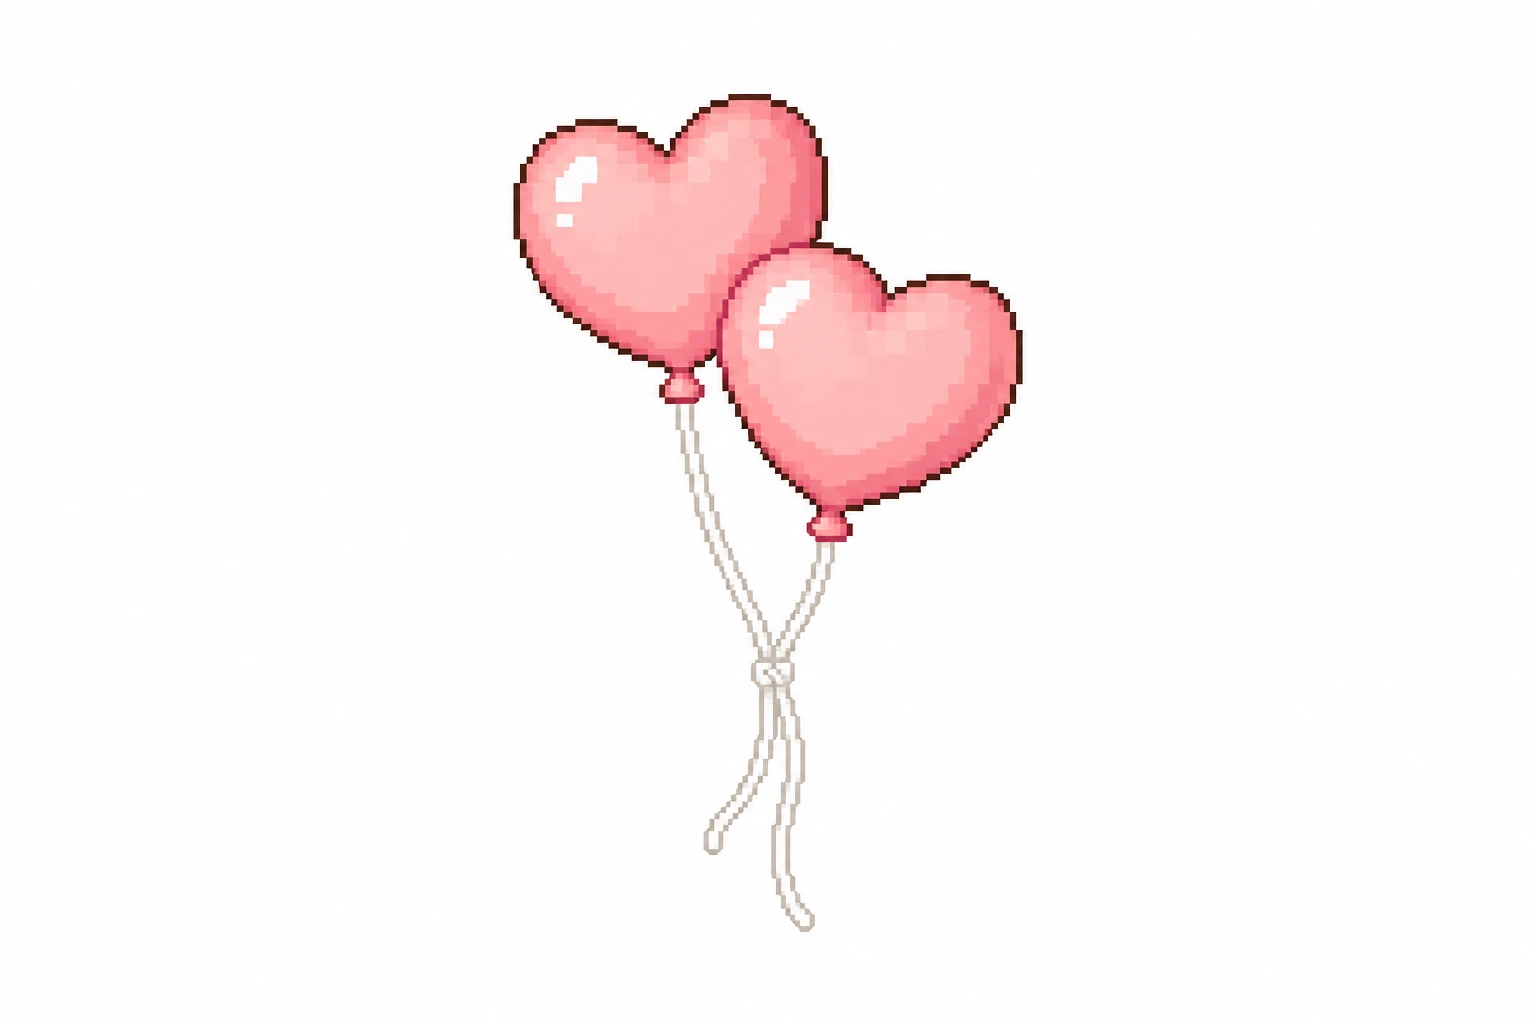
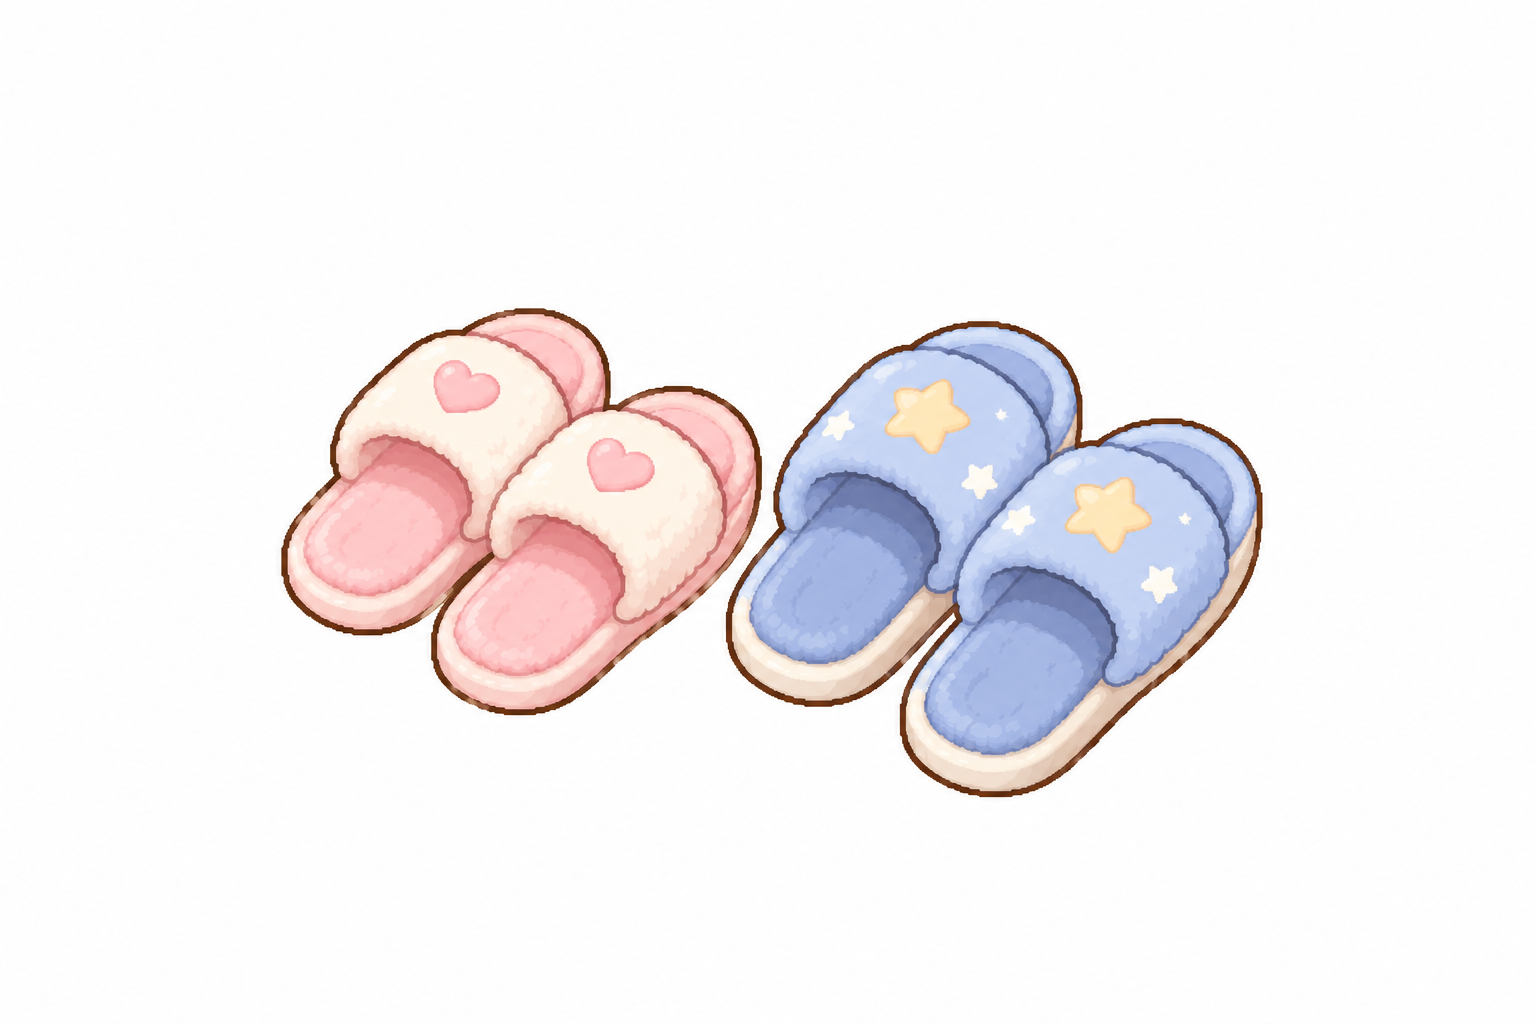
Room items: the last 13 pieces of furniture
Slippers (replacing the heart balloons), hot pot on the low table, ice-cream
beanbag, record player in the TV cabinet's left cubby, sunflowers, popcorn
and microphone on the TV cabinet, umbrella stand, shopping bags and broom by
the door, a letter under the door, and a towel and bike helmet on the door
hook. Sizes follow the teddy bear. All 32 joys now have furniture.

Claude-Session: https://claude.ai/code/session_01MT4YkmG2KGTMjF5XqnwBbs

Changed region(s): [[0.1562, 0.0938, 0.8438, 0.9062], [0.4375, 0.8125, 0.4688, 0.8438]]

diff --git a/public/joys-config.js b/public/joys-config.js
@@ -9,7 +9,7 @@ export const IMPRINTS = {
   cat: { name: '小貓抱枕', where: '床上', x: 520, y: 520, w: 130, h: 81, z: 2 },
   coffee: { name: '拿鐵', where: '書桌上', x: 705, y: 332, w: 54, h: 47, z: 1 },
   meal: { name: '小矮桌和碗筷', where: '電視前的地毯上', x: 975, y: 705, w: 170, h: 121, r: .07, z: 3 },
-  hearts: { name: '愛心氣球', where: '禮物旁邊', x: 280, y: 650, w: 115, h: 189, z: 3 },
+  hearts: { name: '兩雙室內拖鞋', where: '地毯旁邊', x: 855, y: 792, w: 112, h: 56, r: .03, z: 3 },
   gift: { name: '禮物盒', where: '書櫃旁邊', x: 245, y: 705, w: 105, h: 141, r: .04, z: 4 },
   bear: { name: '熊熊玩偶', where: '床邊', x: 330, y: 720, w: 95, h: 126, r: .035, z: 5 },
   paw: { name: '貓狗玩偶', where: '書櫃上', x: 150, y: 430, w: 92, h: 62, z: 2 },
@@ -26,6 +26,18 @@ export const IMPRINTS = {
   game: { name: '掌上遊戲機', where: '床上', x: 520, y: 515, w: 110, h: 69, z: 2 },
   workout: { name: '瑜珈墊和啞鈴', where: '書櫃旁邊', x: 245, y: 712, w: 100, h: 152, r: .045, z: 4 },
   book: { name: '一疊書', where: '小熊旁邊', x: 440, y: 728, w: 118, h: 116, r: .045, z: 5 },
+  cook: { name: '小矮桌和一鍋熱湯', where: '電視前的地毯上', x: 975, y: 705, w: 170, h: 172, r: .07, z: 3 },
+  icecream: { name: '冰淇淋懶骨頭', where: '房間前面的地板', x: 560, y: 812, w: 134, h: 132, r: .06, z: 5 },
+  music: { name: '小唱片機', where: '電視櫃的格子裡', x: 1029, y: 567, w: 40, h: 43, z: 1 },
+  sun: { name: '向日葵花瓶', where: '電視櫃上', x: 1212, y: 560, w: 70, h: 87, z: 1 },
+  movie: { name: '爆米花和電影票', where: '電視櫃上', x: 1212, y: 564, w: 72, h: 62, z: 1 },
+  sing: { name: '小麥克風', where: '電視櫃上', x: 1210, y: 562, w: 58, h: 69, z: 1 },
+  umbrella: { name: '小傘架', where: '門旁邊', x: 1276, y: 676, w: 62, h: 148, r: .03, z: 4 },
+  shop: { name: '購物紙袋', where: '門旁邊', x: 1262, y: 690, w: 116, h: 100, r: .04, z: 4 },
+  clean: { name: '小掃把和畚箕', where: '門旁邊', x: 1268, y: 684, w: 100, h: 118, r: .035, z: 4 },
+  letter: { name: '門縫塞進來的信', where: '門前', x: 1335, y: 714, w: 58, h: 40, z: 2 },
+  bath: { name: '浴巾和小黃鴨', where: '門上的掛鉤', x: 1368, y: 575, w: 56, h: 126, z: 2 },
+  bike: { name: '腳踏車安全帽', where: '門上的掛鉤', x: 1368, y: 565, w: 62, h: 115, z: 2 },
 };
 
 // 擺放位置（多選一，使用者定案）：同一個位置一次只放一件；換上新的，原本那件自動收起來，隨時可以換回來

diff --git a/public/sw.js b/public/sw.js
@@ -1,5 +1,5 @@
 // 版本號：主.次.修（見 CLAUDE.md「版本號」）。改了任何檔案就把最後一位 +1，舊快取才會被清掉
-const VERSION = '0.0.97';
+const VERSION = '0.0.98';
 const CACHE = `lifelog-${VERSION}`;
 const ASSETS = [
   './',
@@ -71,6 +71,18 @@ const ASSETS = [
   './room/imprints/game.webp',
   './room/imprints/workout.webp',
   './room/imprints/book.webp',
+  './room/imprints/bike.webp',
+  './room/imprints/bath.webp',
+  './room/imprints/letter.webp',
+  './room/imprints/umbrella.webp',
+  './room/imprints/shop.webp',
+  './room/imprints/clean.webp',
+  './room/imprints/sun.webp',
+  './room/imprints/movie.webp',
+  './room/imprints/sing.webp',
+  './room/imprints/music.webp',
+  './room/imprints/icecream.webp',
+  './room/imprints/cook.webp',
   './joys/sparkle.webp',
   './joys/music.webp',
   './room/tv_on.webp',

diff --git a/art/tools/imprint_items.py b/art/tools/imprint_items.py
@@ -19,13 +19,15 @@ SRC = ROOT / 'art/source/furniture'
 OUT = ROOT / 'public/room/imprints'
 LINE = (62, 23, 11)  # 房間外框的顏色
 # key: 在房間裡的寬度（房間座標）
-WIDTH = {'cat': 130, 'coffee': 54, 'meal': 170, 'gift': 105, 'bear': 95, 'hearts': 85,
+WIDTH = {'cat': 130, 'coffee': 54, 'meal': 170, 'gift': 105, 'bear': 95, 'hearts': 112,
          'paw': 120, 'moon': 44, 'star': 200, 'sneaker': 62,
          'cake': 58, 'call': 64, 'camera': 52, 'home': 56, 'plant': 64, 'sparkle': 300, 'sunset': 96,
-         'game': 110, 'workout': 100, 'book': 118}
+         'game': 110, 'workout': 100, 'book': 118,
+         'bike': 62, 'bath': 56, 'letter': 58, 'umbrella': 62, 'shop': 116, 'clean': 100, 'sun': 70, 'movie': 72,
+         'sing': 58, 'music': 40, 'icecream': 134, 'cook': 170}
 # 掛在牆上的要照牆的斜度斜過去：每往右 1px 往下幾 px（GPT 畫的是正面，右牆約往下 0.49，原圖的線已經斜 0.19）
 # 負的是往右上升：左牆、窗簾桿（約 -0.49）
-SHEAR = {'star': 0.3, 'sparkle': -0.49, 'sunset': -0.49}
+SHEAR = {'star': 0.3, 'sparkle': -0.49, 'sunset': -0.49, 'bike': 0.49, 'bath': 0.49}
 # 小東西的外框細一點（預設 3px）
 LINE_W = {'star': 2, 'sparkle': 2}
 

diff --git a/CLAUDE.md b/CLAUDE.md
@@ -163,7 +163,11 @@
   - 設定 `public/joys-config.js` 的 `IMPRINTS`：每件家具在房間的位置（底部中間 x,y）、大小、疊放順序 z、放在地板上的擋路半徑 r；改數字不用動程式。
   - 圖：`python3 art/tools/imprint_items.py` 把 `art/source/furniture/<key>.png`（GPT 白底單張）去背、縮到房間大小、外框重畫成房間的粗細顏色 → `public/room/imprints/<key>.webp`；新增要加進 `WIDTH`、`IMPRINTS`、`sw.js`。
   - **多選一的擺放位置**（使用者定案，取代原本的「新家具直接疊上去」）：`joys-config.js` 的 `SLOT_OF` 把 32 個圖示分到 22 個位置（`SLOTS` 是位置名稱），同一個位置一次只放一件。拿到新家具時位置已經有東西，視窗問「換上（原本的收起來）／先收著」；收藏冊的按鈕是「放到房間／換上／收起來」。`shownImprints` 和伺服器 `sharedView` 都是新放的在前，`onePerSlot` 每個位置只留第一件（兩台手機各放一件時，留最後放的）。多選一的位置：書桌左邊 coffee／cake、床上 cat／game、書櫃旁地板 gift／workout、地毯中間 meal／cook、電視櫃上（電視右邊）sun／movie／sing／call、門邊地板 umbrella／shop／clean、門上掛鉤 bath／bike。
-  - 擺放規劃（使用者定案）：拖鞋 hearts 在地毯左前方外緣、book 一疊書在小熊右邊、icecream 懶骨頭在左前方地板、bike 是掛在門上的安全帽；完整的 22 個位置見 `SLOT_OF`，還沒有圖的家具座標等圖做好再量。目前有圖的：cat 小貓抱枕、meal 小矮桌（電視前地毯上）、gift 禮物、bear 熊熊、hearts 愛心氣球、paw 貓狗玩偶（書櫃頂，地球儀旁邊）、moon 月亮小夜燈（床頭）、star 星星吊飾（右牆，`SHEAR` 照牆的斜度斜過去）、sneaker 地球儀（出外旅行，書櫃頂）、coffee 拿鐵（只有杯子，書桌左邊，和杯子蛋糕一樣大、二選一；舊的拿鐵＋咖啡壺留在 `coffee_pot.png`）、cake 杯子蛋糕（書桌左邊）、camera 拍立得（角落層架長邊右側，只有相機）、call 復古電話（電視櫃上、電視右邊；使用者從書桌改過來）、home 全家福相框（角落層架長邊，相機左邊）、plant 小多肉（窗台）、sparkle 星光串燈（窗簾桿，`SHEAR` -0.49：負的是往右上升，左牆和窗簾桿都是）、sunset 風景明信片（窗戶旁的牆，`SHEAR` -0.49）、game 掌上遊戲機（床上）、workout 瑜珈墊（書櫃旁，比熊熊高）、book 一疊書（小熊旁，和熊熊差不多高）；**大小以熊熊為現實比例參考**（使用者定案）。其他的拿到會顯示「家具製作中」。舊模型圖改名成 `camera_tripod.png`（三腳架相機）、`cloud_beanbag.png`（雲朵懶骨頭），備用。**hearts 要換成「兩雙並排的室內拖鞋」**（使用者定案，放地毯左前方外緣，像脫了鞋要坐在地毯上吃飯；位置等圖做好再量），等 GPT 圖放進 `art/source/furniture/hearts.png` 再換；key 照舊用 hearts。`art/source/furniture/shoes.png`（球鞋＋踏墊）先留著備用。
+  - 擺放規劃（使用者定案）：**32 件家具都有圖了**，完整的 22 個位置見 `SLOT_OF`、座標見 `IMPRINTS`。**大小以熊熊為現實比例參考**（使用者定案：瑜珈墊比熊熊高、書和熊熊差不多高）。
+    - 書桌左邊 coffee 拿鐵（只有杯子，和蛋糕一樣大）／cake；書桌上的紙條位置不變。角落層架長邊：home 全家福（左）、camera 拍立得（右，只有相機）。窗台 plant、窗簾桿 sparkle 串燈、窗戶旁的牆 sunset 明信片（兩個 `SHEAR` -0.49：負的是往右上升）。
+    - 床上 cat／game；書櫃頂 sneaker 地球儀、paw；書櫃旁 gift／workout；小熊旁 book；地毯中間 meal／cook（同一張小矮桌換成一鍋湯）；地毯左前方 hearts 兩雙室內拖鞋（取代愛心氣球，舊圖 `hearts_balloons.png`）；前方地板 icecream 懶骨頭。
+    - 電視櫃最左格 music 唱片機；電視櫃上（電視右邊）call／sun／movie／sing；門邊地板 umbrella／shop／clean；門前 letter；門上掛鉤 bath／bike（`SHEAR` 0.49，照右牆往右下）。
+    - 舊模型圖留著備用：`camera_tripod.png`、`cloud_beanbag.png`、`coffee_pot.png`、`hearts_balloons.png`、`shoes.png`。
   - 收藏冊在「累積幸福 → 全部」最下面，32 格（`JOY_ICONS` 全部）。
 - **使用者在小幸福選單（artifact）選了 32 個**：原本 24 個，加上 game 玩了喜歡的遊戲、cook 自己做了一頓飯、shop 買到喜歡的東西、workout 去運動了、movie 看了好看的電影、clean 把房間整理乾淨、call 和好久不見的人聊天、sing 大聲唱了歌。這 8 個已加進 `JOY_ICONS`（emoji）和 `ASK`，但**還沒有像素圖示**：不在 `JOY_PIX`，所以不能選來當小幸福或紙條貼圖（`PICKABLE_ICONS`），收藏冊顯示「即將推出」；圖做好放進 `public/joys/`、加進 `JOY_PIX` 和 `sw.js`，再加進 `SUGGESTIONS`。原本只有圖示的 6 個補了名稱，加進建議：被抱抱了 bear、照顧了植物 plant、完成了一件事 sparkle、雨天也很好 umbrella、吃到冰淇淋 icecream、騎車出去晃晃 bike。
 - 之後：Phase 2 幸福星罐、Phase 4 年度回顧卡、日記時間軸上的小印章；新房間草稿在 `art/source/room2/room_*.webp`（之後做換房間時用）。
